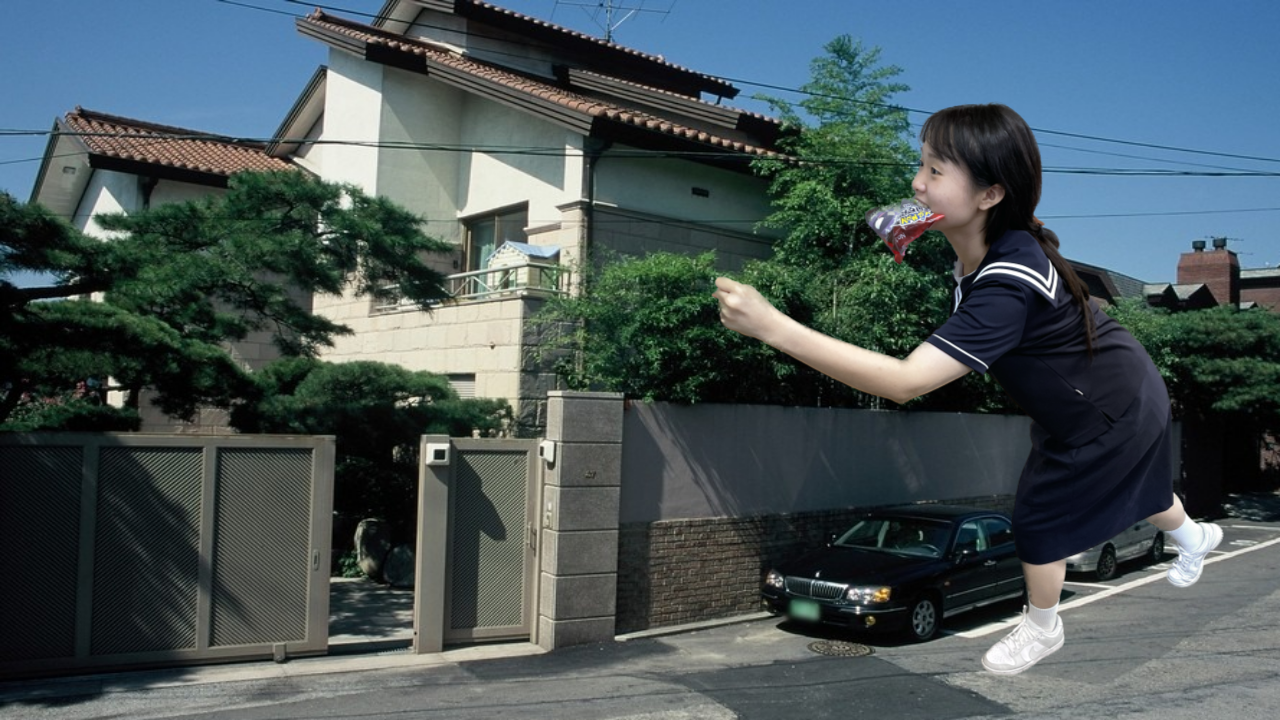
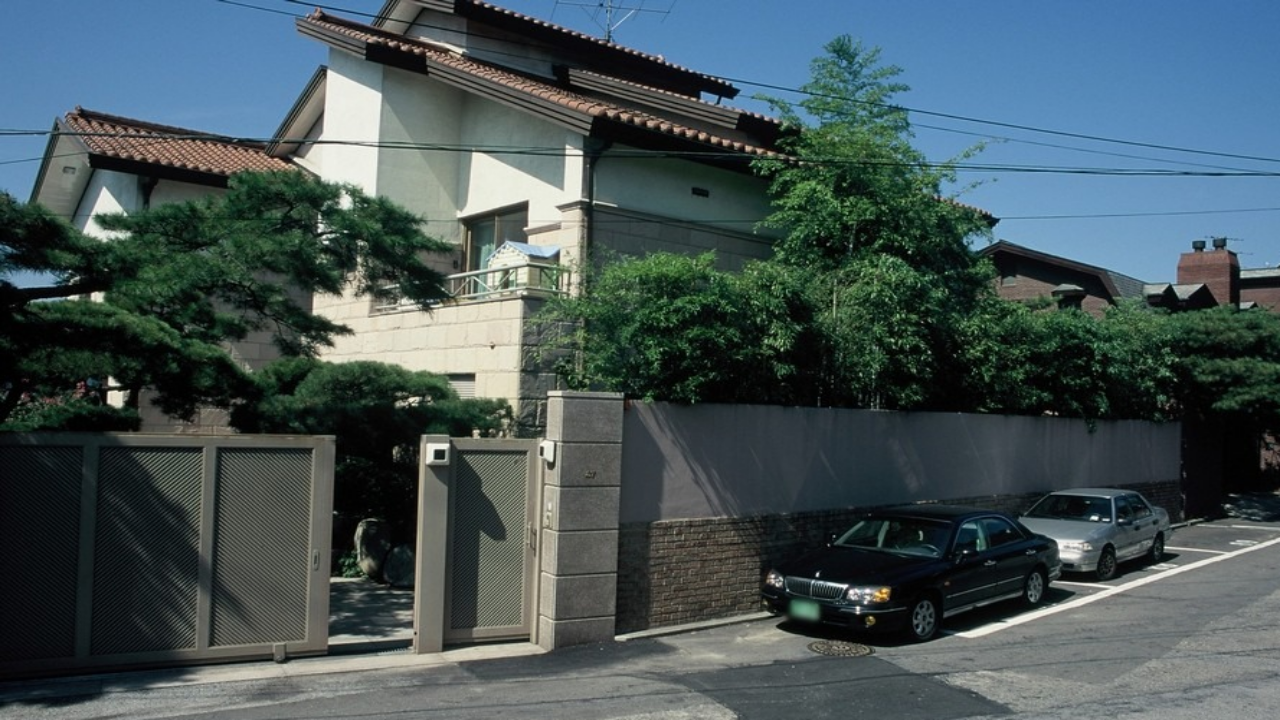
민서 달리기 & 알람소리

Changed region(s): [[0.5312, 0.1222, 0.9688, 0.9472]]

diff --git a/MinamEscape/main.cpp b/MinamEscape/main.cpp
@@ -1,4 +1,5 @@
 #include <SFML/Graphics.hpp>
+#include <SFML/Audio.hpp>
 #include <iostream>
 #include <Windows.h>
 
@@ -7,12 +8,22 @@ using namespace std;
 
 struct Textures {
     Texture bg[6];  // 여섯 개의 배경 이미지
+    Texture minseo;
 };
+
+struct SBuffer {
+    SoundBuffer Alarm;
+   };
 
 const int W_WIDTH = 1280, W_HEIGHT = 720;
 
 int main() {
     struct Textures t;
+    t.minseo.loadFromFile("./resources/images/minseo1.png");
+
+    struct SBuffer sb;
+    sb.Alarm.loadFromFile("./resources/sounds/alarm.ogg");
+
     // 경로 바꿔줄 것
     for (int i = 0; i < 6; ++i) {
         string imagePath = "./resources/images/start" + to_string(i) + ".png";
@@ -22,6 +33,12 @@ int main() {
         }
     }
 
+    //BGM
+    Sound Alarm_sound;
+    Alarm_sound.setBuffer(sb.Alarm);
+    Alarm_sound.setVolume(90);
+    Alarm_sound.setLoop(1);       //BGM 무한반복
+
     RenderWindow window(VideoMode(W_WIDTH, W_HEIGHT), "MinamEscape");
     window.setFramerateLimit(60);
 
@@ -29,6 +46,15 @@ int main() {
     start_bg_sprite.setTexture(t.bg[0]); // 처음 실행 시 start0.png 설정
 
     int currentBackground = 0; // 현재 배경 인덱스
+
+    // 민서 이미지 스프라이트 설정
+    Sprite minseo_sprite;
+    minseo_sprite.setTexture(t.minseo);
+    minseo_sprite.setOrigin(t.minseo.getSize().x / 2, t.minseo.getSize().y / 2); // 이미지 중심을 기준으로 설정
+    minseo_sprite.setPosition(W_WIDTH - 100, W_HEIGHT / 2); // 화면 중앙에 배치
+
+    bool movingMinseo = false;
+    float minseoSpeed = 10.0f;
 
     while (window.isOpen()) {
         Event event;
@@ -47,6 +73,27 @@ int main() {
 
         window.clear(Color::White);
         window.draw(start_bg_sprite);
+
+        if (currentBackground == 1) {
+            Alarm_sound.play();
+        }
+
+        if (currentBackground == 3) {
+            // 네번째 이미지일 때만 민서 이미지를 그립니다.
+            window.draw(minseo_sprite);
+
+            if (!movingMinseo) {
+                // 민서 이미지가 움직이지 않았다면 움직임 시작
+                movingMinseo = true;
+            }
+            else {
+                // 민서 이미지를 왼쪽으로 움직이게 합니다.
+                float newPositionX = minseo_sprite.getPosition().x - minseoSpeed;
+                minseo_sprite.setPosition(newPositionX, minseo_sprite.getPosition().y);
+
+            }
+        }
+
         window.display();
     }
 
